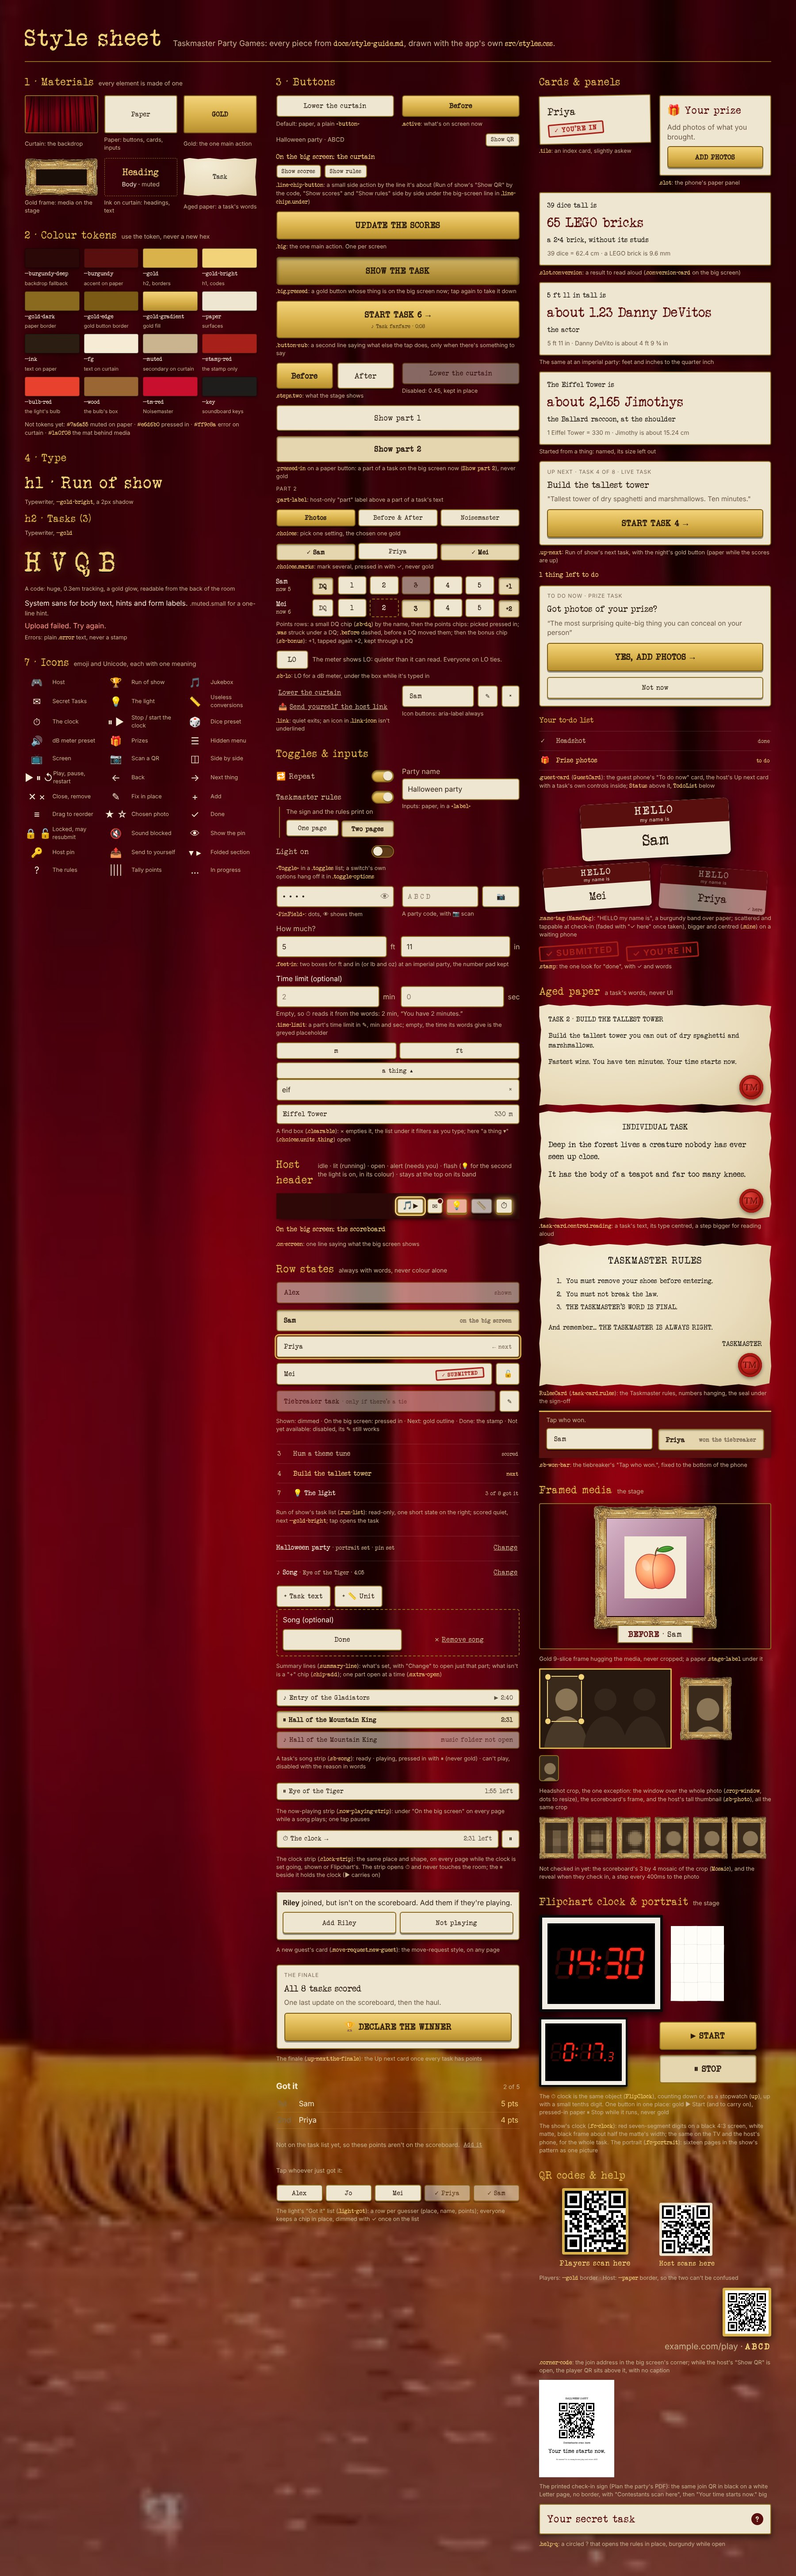
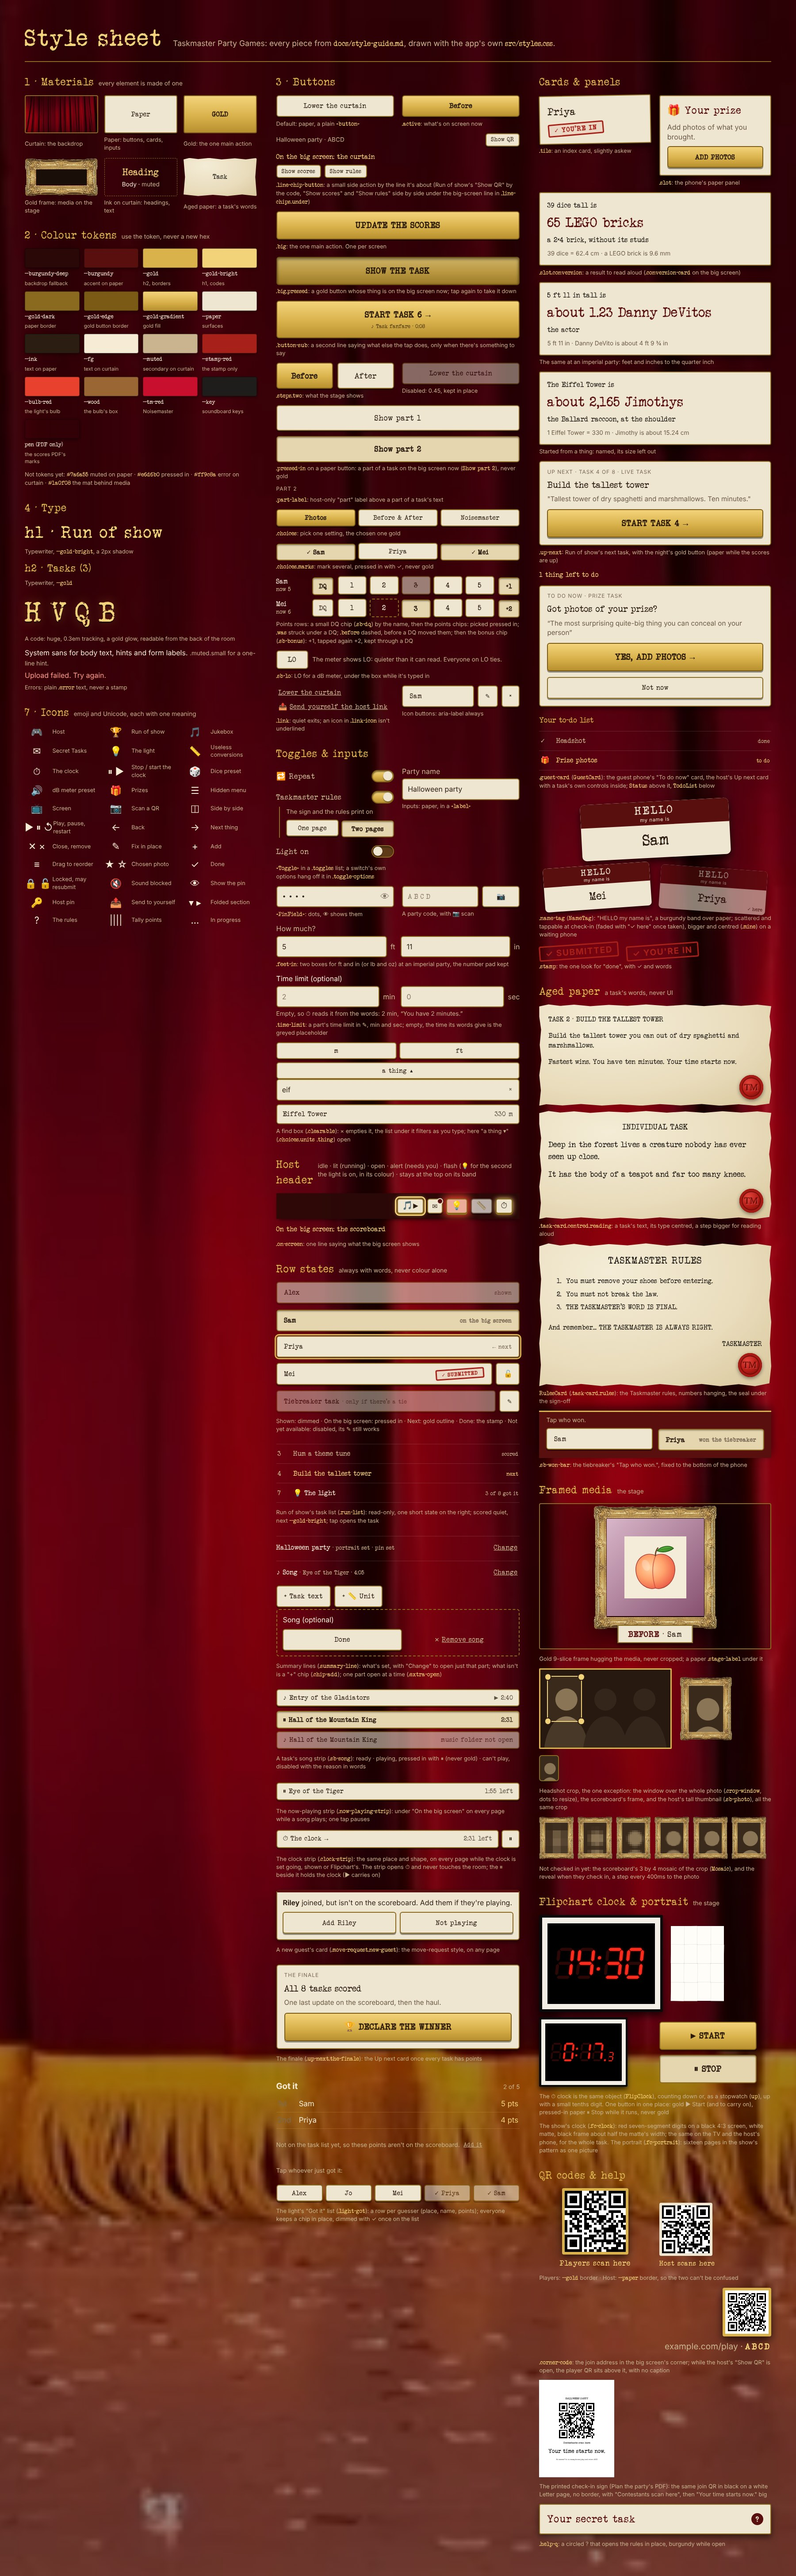
Show the TV's download button over the scoreboard and haul; document the zip
The night ends on the scores or the haul, so with the switch on the corner
button sits over them too (above the scoreboard's fixed layer). The style guide
describes the zip's scores and the host remote's button, the screens README
lists the new shots, and the style sheet gains the PDF's pen blue.

Claude-Session: https://claude.ai/code/session_01MCbF4JDCJEwkkjubeaCq1Y

Changed region(s): [[0.0311, 0.1556, 0.3111, 0.3733]]

diff --git a/src/Screen.tsx b/src/Screen.tsx
@@ -66,10 +66,12 @@ export function Screen({ code, session, viewOnly = false, footer }: {
   if (session.conversion) return <ConversionStage conversion={session.conversion} />;
   // So does the ⏱ clock, when the host shows it.
   if (session.clock?.shown) return <ClockStage session={session} />;
+  // The night ends on the scores or the haul, so the download button (when it's switched on) sits over them too.
+  const download = !viewOnly && session.showDownload && <div className="corner-download"><DownloadZip code={code} session={session} /></div>;
   // The scoreboard belongs to no game, so it can go up whatever is on.
-  if (display.step === "scoreboard") return <ScoreboardStage board={session.scoreboard} players={session.players} />;
+  if (display.step === "scoreboard") return <><ScoreboardStage board={session.scoreboard} players={session.players} />{download}</>;
   // So is the winner's prize haul, at the end of the party.
-  if (display.step === "haul") return <HaulStage code={code} session={session} />;
+  if (display.step === "haul") return <><HaulStage code={code} session={session} />{download}</>;
   // And a task's text, when the host puts it up.
   const words = display.step === "tasktext" ? textUp(session.scoreboard, display.task, display.part) : undefined;
   if (words) return <TaskTextStage {...words} />;
@@ -164,7 +166,7 @@ export function Screen({ code, session, viewOnly = false, footer }: {
         </ul>
       </aside>
       <CornerCode code={code} session={session} />
-      {!viewOnly && session.showDownload && <div className="corner-download"><DownloadZip code={code} session={session} /></div>}
+      {download}
       {menu}
       {viewOnly && footer}
     </main>

diff --git a/docs/guest-shots/shots.tsx b/docs/guest-shots/shots.tsx
@@ -446,5 +446,5 @@ const allBulbs = MODES.find((m) => m.id === "all")!.bulbs;
 if (shot === "host-light-flash") window.setTimeout(() => void lightNow(CODE), 1200);
 root.render(shot === "tv-light" ? <main className="stage light-stage"><div className="light-show"><Bulb lit /></div></main> :
   shot === "tv-light-all" ? <main className="stage light-stage"><div className="light-show"><div className="light-bulbs" style={{ gridTemplateColumns: "repeat(3, auto)" }}>
-    {allBulbs.map((b) => <Bulb key={b.trigger.id} lit={b.trigger.id === "stop-smiling" || b.trigger.id === "arm-up"} colour={b.colour} />)}</div></div></main> : shot.startsWith("tv-gate") ? <StageGate code={CODE} session={session as unknown as Session} onRaised={() => {}} onEnd={() => {}} /> : shot.startsWith("tv-") ? <Screen code={CODE} session={session as unknown as Session} viewOnly /> : shot.startsWith("host-") || shot.startsWith("start-host") ? <HostPage /> :
+    {allBulbs.map((b) => <Bulb key={b.trigger.id} lit={b.trigger.id === "stop-smiling" || b.trigger.id === "arm-up"} colour={b.colour} />)}</div></div></main> : shot.startsWith("tv-gate") ? <StageGate code={CODE} session={session as unknown as Session} onRaised={() => {}} onEnd={() => {}} /> : shot.startsWith("tv-") ? <Screen code={CODE} session={session as unknown as Session} viewOnly={shot !== "tv-zip"} /> : shot.startsWith("host-") || shot.startsWith("start-host") ? <HostPage /> :
   shot === "alone-convert" ? <ConverterPage /> : <Play />);

diff --git a/src/styles.css b/src/styles.css
@@ -165,7 +165,7 @@ input::placeholder { color: #8b7a63; }
 /* the host remote's "Show QR", mirrored above the address: big enough to scan from a sofa */
 .corner-code svg { width: 24vh; height: auto; border-radius: 4px; border: 6px solid var(--gold); background: #fff; box-shadow: 0 6px 18px #000a; }
 .corner-code strong { font-family: var(--typewriter); color: var(--gold-bright); letter-spacing: 0.2em; }
-.corner-download { position: fixed; left: 1.2rem; bottom: 0.8rem; }
+.corner-download { position: fixed; left: 1.2rem; bottom: 0.8rem; z-index: 2; } /* over the scoreboard's fixed layer too */
 /* the task card: aged, torn paper in typewriter with the red TM wax seal */
 .task-card {
   position: relative; width: min(100%, 120vh); padding: 6vh 7vh 15vh;

diff --git a/docs/style-sheet/sheet.tsx b/docs/style-sheet/sheet.tsx
@@ -43,6 +43,7 @@ const tokens: [string, string, string][] = [
   ["--muted", "#c9b48f", "secondary on curtain"], ["--stamp-red", "#a8201a", "the stamp only"],
   ["--bulb-red", "#e8412e", "the light's bulb"], ["--wood", "#9a6634", "the bulb's box"],
   ["--tm-red", "#c8102e", "Noisemaster"], ["--key", "#1e1d1c", "soundboard keys"],
+  ["pen (PDF only)", "#1f389e", "the scores PDF's marks"],
 ];
 const icons: [string, string][] = [
   ["🎮", "Host"], ["🏆", "Run of show"], ["🎵", "Jukebox"], ["✉", "Secret Tasks"], ["💡", "The light"], ["📏", "Useless conversions"], ["⏱", "The clock"], ["⏸ ▶", "Stop / start the clock"], ["🎲", "Dice preset"], ["🔊", "dB meter preset"], ["🎁", "Prizes"],

diff --git a/docs/style-guide.md b/docs/style-guide.md
@@ -184,6 +184,11 @@ Each screen has its own rules. Know which one you're designing for.
 - On the curtain and while entries come in, the join address sits small in the bottom-right corner (`.corner-code`: "site/play · ABCD" in `--muted`, the code in gold typewriter), so a late guest can still join. While the host remote's "Show QR" is open, the join QR (24vh, `--gold` border, no caption: the address underneath is its caption) sits just above it.
 - **Prize haul** (`.haul`): the finale. "Prize Haul" as a huge typewriter `h1` across the top, the winner's headshot in the largest gold frame in the centre with a paper placard ("Priya is the winner!"), and each prize's ★ photo in smaller frames around it, each with a small "from Sam" placard. The prizes hang one by one from the centre outwards.
 - **The scoreboard is the one exception to the curtain.** It's ported as is from tm-scoreboard (`src/scoreboard/scoreboard.css`, VodBox, MIT): its own sepia typewriter photo (`assets/background.jpg`), each contestant's headshot in a gold frame (cropped as the host chose, § Framed media) over their score on a red wax seal, sorted with the leader scaled up, sliding to new places over 2s. It's sized in fixed px and scaled to the screen. Leave its look alone so it stays the show's own; new stage screens follow the curtain rules above, not this one.
+- **Download all** (`.corner-download`, `DownloadZip.tsx`): a small paper button in the bottom-left corner, only while the host has "Download button on the big screen" on, over the collecting screen, the scoreboard and the prize haul (where the night ends). "⬇ Download photos, videos & scores (10)": the count is the photos and videos, and once the scoreboard has shown points the scores go in too; with no photos, "⬇ Download the scores". The zip has a folder per guest and, at its top, the scores, drawn for the zip rather than screenshotted (`zipScores.ts`):
+  - **The scoreboard** (`scoreboardImage.ts`): the big screen's scoreboard redrawn on a canvas from its own measurements, at its own size (280px a contestant by 1080), as the room last saw it: settled, every face sharp (no mosaics), each frame's tilt frozen part way through its sway, no names. A tie at the top that the tiebreaker settled enlarges only its winner, on the right, with the prize haul's paper placard "Tiebreaker" under the seal. See: [zip-final-scoreboard.jpg](screens/zip-final-scoreboard.jpg).
+  - **The prize haul** (`haulImage.ts`): the haul redrawn on a canvas at 1920×1080 with every prize hung. Only once the night is decided and with a prize photo in. See: [zip-prize-haul.jpg](screens/zip-prize-haul.jpg).
+  - **Scores by task** (`scoresPdf.ts`): the Print PDF's paper (plain black typewriter on white Letter). The party's name, "Scores by task · October 31, 2026" (the day the first guest checked in), a row per task in the order played, a column per guest lowest to highest as on the scoreboard, a bonus kept apart in the cell ("3 +1"), a DQ as "DQ", totals along the bottom and "Tiebreaker: Priya" under them. Marked up in **ballpoint blue** (`#1f389e`, `0.12 0.22 0.62` in the PDF: its one colour, on the style sheet as "pen") as if by hand: each task's top points underlined (ties all, never a DQ) and the winner's total circled in one loop that overshoots its start. See: [zip-scores-by-task.jpg](screens/zip-scores-by-task.jpg).
+  - Named "Final scoreboard.png", "Scores by task.pdf" and "Prize haul.png" once the night is decided; before that the names say how far it got ("Scoreboard after task 5 of 8.png", "Scores by task so far.pdf", the PDF saying "Scores so far · after 5 of 8 tasks"), there's no haul and nothing is circled. The images never change for it. See: [zip-main-download.jpg](screens/zip-main-download.jpg).
 
 See: [main-welcome.jpg](screens/main-welcome.jpg), [main-collecting-entries.jpg](screens/main-collecting-entries.jpg), [headshot-task-main.jpg](screens/headshot-task-main.jpg), [main-prize-haul.jpg](screens/main-prize-haul.jpg), [scoreboard-main-after.jpg](screens/scoreboard-main-after.jpg).
 
@@ -221,7 +226,7 @@ See: [guest-home-waiting.jpg](screens/guest-home-waiting.jpg), [guest-home-prize
   3. **The "Up next" card** (`.up-next`): a paper card with "Up next · task 4 of 8 · live task" in small capitals, the task's name, the first lines of its note in quotes, and the night's gold button: "Start task 4 →", "▶ Start Photos: best costume" for an app task, or "Open task 4 →" for a task half-scored, already on, or the light. A task with a transition has it as the Start button's second line, "♪ Task fanfare · 0:08 · 🖼 Dice tower" or "▶ Drumroll cam · 0:12": the tap plays it on the big screen at once ([up-next-transition.jpg](screens/up-next-transition.jpg)); "Open task 4 →" never plays it, so it never shows it. A piece gone from its folder is struck through and greyed, "not found" after it; with the music folder closed the whole line is greyed, "· music folder not open". Start still works and skips it ([up-next-transition-missing.jpg](screens/up-next-transition-missing.jpg)). While the top slot has the gold, the card's button is paper; starting it then brings the scores down too.
   4. **All tasks** (`.run-list`): read-only rows, a number, the name and one short state on the right ("scored", "next", "playing", "3 of 8 got it", "1 of 8 prizes in"). Scored rows are quiet, the next one is `--gold-bright`. Tapping a row opens that task's page, for running one out of order. No ≡, ✎ or ▶ here.
   5. A quiet "End the night now: declare the winner" under the list (the night can end before every task is played: one last update, then the haul).
-  6. Quiet links at the bottom (`.run-links`): "Play a task that's not on the list" (or "Back to [BLANK] in a Box" while one is on), "Plan the party", "Party settings" (the download button, "Reset scores…" and Disconnect). "Reset scores…" opens in place in an `.extra-open` panel: a **Clears** sentence and a muted **Keeps** sentence, counted for the party, an "Also remove guests" switch (off to start), then a paper button named for what it does and a `confirm()`. Never gold: a reset is never the night's next step. After it, the big screen goes back to the curtain. See: [host-reset-scores.jpg](screens/host-reset-scores.jpg).
+  6. Quiet links at the bottom (`.run-links`): "Play a task that's not on the list" (or "Back to [BLANK] in a Box" while one is on), "Plan the party", "Party settings" (the download button, its switch for the big screen, "Reset scores…" and Disconnect). The download button is the big screen's, at the top and never gold, without the videos ("⬇ Download photos & scores (8)"): a phone holds the whole zip in memory, and a night of videos can outgrow it. While there are videos a muted line under it says "Videos download from the big screen's button (switch below)." See: [zip-host-party-settings.jpg](screens/zip-host-party-settings.jpg). "Reset scores…" opens in place in an `.extra-open` panel: a **Clears** sentence and a muted **Keeps** sentence, counted for the party, an "Also remove guests" switch (off to start), then a paper button named for what it does and a `confirm()`. Never gold: a reset is never the night's next step. After it, the big screen goes back to the curtain. See: [host-reset-scores.jpg](screens/host-reset-scores.jpg).
 - **One task page for every task** (`TaskPage.tsx`), live task or app task: "← Run of show", the task as the `h1` (`.task-head`) with "Task 4 of 8 · live task" under it, the `.on-screen` line, then:
   - gold **"Show the task"** on an **app task** with text: putting the words up is usually what comes next. While they're up it's pressed in (`button.big.pressed`: down 2px, inset shadow, a little darker), and tapping it again lowers the curtain. On an app task the gold moves on to its next step once the words have been up;
   - **Secret Tasks** is the exception: it's the night's last task, where the envelopes are revealed, and its words are already on paper or on guests' phones. It has a paper (never gold) "Show the task" that puts **Part 2**, the reveal's words, on the big screen, and no task card on the page, so the reveal's gold "First up: Sam →" is the one next step. With no Part 2 there's no "Show the task". See: [secret-reveal-host-title.jpg](screens/secret-reveal-host-title.jpg), [secret-reveal-main-part2.jpg](screens/secret-reveal-main-part2.jpg);

diff --git a/docs/screens/README.md b/docs/screens/README.md
@@ -91,6 +91,7 @@ Host phone (`/host`, 390px wide):
 | `host-read-it-out-up.jpg` | The same with it on the big screen: the status line says "a useless conversion", the button is pressed in ("On the big screen · Jordan"), and 📏 is lit in the header (2026-10-18) |
 | `host-party-settings.jpg` | Party settings, at the bottom of Run of show: only the night-of switches, the download button and "Disconnect this phone" (the name, portrait and pin moved to Plan the party) (2026-10-18). "Reset scores…" now sits under the download switch: see `host-reset-scores.jpg` |
 | `host-reset-scores.jpg` | Party settings with "Reset scores…" opened in place: what it clears and keeps, "the app tasks' rounds", "Also remove guests (6 joined)" switched on with what goes, and the paper "Reset and remove guests" button with Cancel (2026-10-19, from the ABCD party) |
+| `zip-host-party-settings.jpg` | Party settings with the download button at the top: "⬇ Download photos & scores (8)", the muted "Videos download from the big screen's button (switch below).", then the switch (2026-10-25, the ABCD party's tied night) |
 
 Main screen (`/`, 1600×900):
 
@@ -327,3 +328,12 @@ The task pages (taken on 2026-10-21 from the ABCD party with `docs/guest-shots`,
 | `light-host-trouble.jpg` | The lamp dropped mid-game, light on: 💡 with the alert dot, "The Hue lamp isn't responding: couldn't reach the bridge. Check the lamp is switched on at the wall, then fix it here.", Sam 1st and Priya 2nd still on Got it (2026-10-24) |
 | `light-host-trouble-fix.jpg` | "fix it here" opened: the lamp step with "○ Hue lamp: Living room, not responding", "Switch the light off to test the lamp…" instead of Flash the lamp, and the bridge's error (2026-10-24) |
 | `light-host-got-it.jpg` | The host's 💡 page with the light on: "Camera sees 6 people, 2 smiling.", "Light it in 2 s", the secret, and Got it: Sam 1st 5 pts, Priya 2nd 4 pts |
+
+The download-all zip (2026-10-25, the ABCD party's last night: Alex and Priya tied on 30 after eight tasks, Priya won the tiebreaker; `node docs/guest-shots/zip.mjs` draws the files with the app's own renderers, `shoot.mjs zip-main-download` the TV):
+
+| File | What it shows |
+|---|---|
+| `zip-main-download.jpg` | Main screen: the final scoreboard with "⬇ Download photos, videos & scores (10)" in the bottom-left corner |
+| `zip-final-scoreboard.jpg` | "Final scoreboard.png": the scoreboard redrawn at 1680×1080, faces sharp, tilts frozen, only Priya enlarged with the "Tiebreaker" placard |
+| `zip-prize-haul.jpg` | "Prize haul.png": the haul at 1920×1080, Priya in the centre, the four prizes hung |
+| `zip-scores-by-task.jpg` | "Scores by task.pdf", page 1: the grid lowest to highest, "3 +1" and "DQ", the top points underlined and Priya's 30 circled in blue pen, "Tiebreaker: Priya" |

diff --git a/README.md b/README.md
@@ -61,7 +61,7 @@ A running puzzle for the whole evening, after the Taskmaster task: a red light b
 5. `npm run deploy` to ship to Hosting.
 
 ## Downloading everything
-The main screen's **Download all photos & videos** button (hidden until the host taps "Show download button on the main screen" on their phone) zips every submitted file in the browser (one folder per player). Because it fetches the files with JavaScript, the Storage bucket needs a one-time CORS setting. In [Google Cloud Shell](https://console.cloud.google.com/?cloudshell=true) (project `before-and-after-6a096`):
+The main screen's **Download photos, videos & scores** button (hidden until the host turns on "Download button on the big screen" in Party settings) zips every submitted file in the browser (one folder per player), with the final scoreboard, the prize haul and a scores-by-task PDF at the top. The host remote has the same button at the top of Party settings, without the videos (a phone holds the whole zip in memory). Because it fetches the files with JavaScript, the Storage bucket needs a one-time CORS setting. In [Google Cloud Shell](https://console.cloud.google.com/?cloudshell=true) (project `before-and-after-6a096`):
 
 ```sh
 echo '[{"origin":["https://tm-party-games.web.app","https://tm-party-games.firebaseapp.com","https://before-and-after-6a096.web.app","https://before-and-after-6a096.firebaseapp.com","http://localhost:5173"],"method":["GET"],"maxAgeSeconds":3600}]' > cors.json
